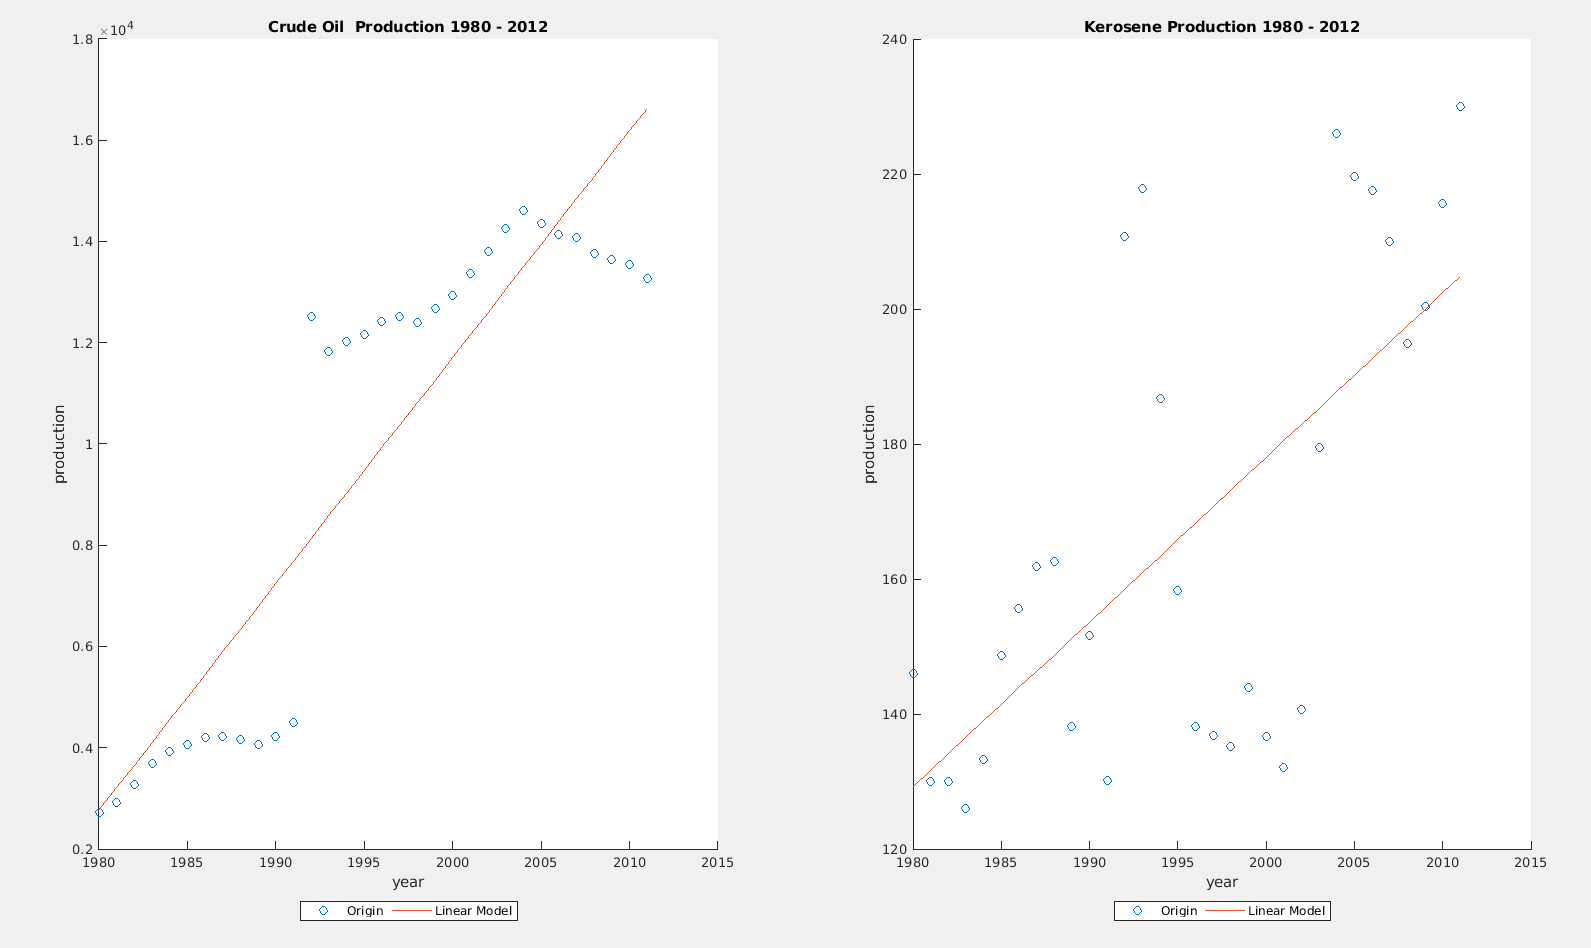
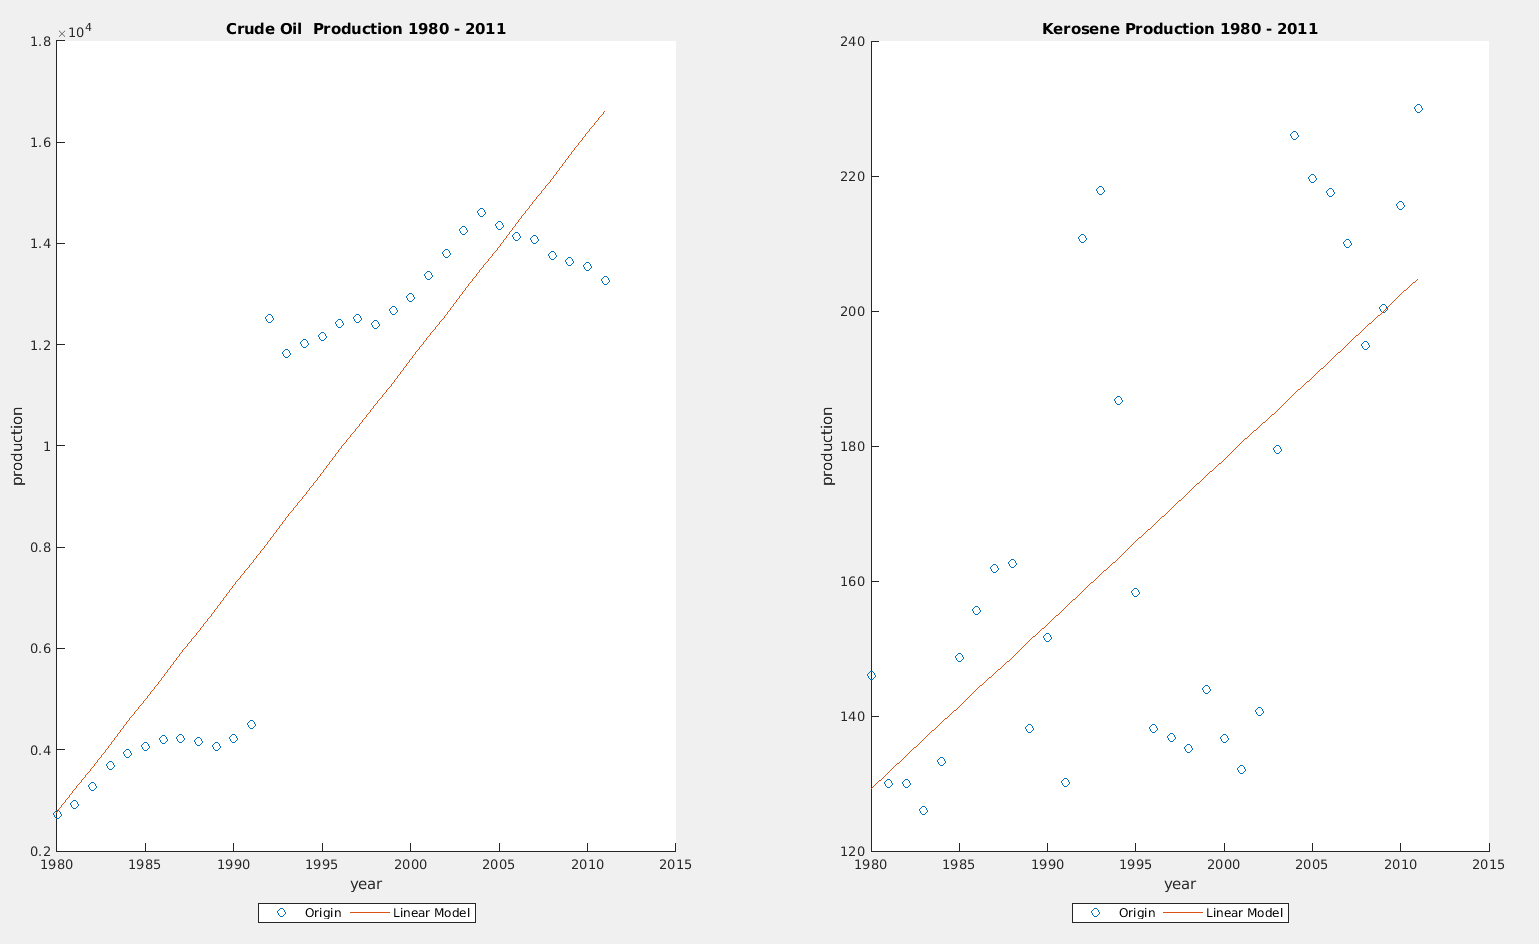
debugged and fixed ex2

diff --git a/Hun_Rim_BonusProject/Template (4)/Template/template.tex b/Hun_Rim_BonusProject/Template (4)/Template/template.tex
@@ -82,7 +82,7 @@ Least Square solution ${x^*}$ can be obtained by solving the following equation:
 
 \vspace{20px}
 
-Then from the ${x^*}$ obtained, we can get the residual vector as following and from it, we can calculate the Euclidean norm and proceed to SE (Sum of Square Residuals) and RMSE (Root Mean Squared Error):
+Then from the ${x^*}$ obtained, we can get the residual vector as following and from it, we can calculate the Euclidean norm and proceed to SE (Standard Error) and RMSE (Root Mean Squared Error):
 
 \vspace{20px}
 
@@ -292,7 +292,7 @@ and the resulting ${x^*}$ will be
   end
  \end{lstlisting}
  
- The code above calculates least squares (${leastSquare.m}$) using matlab library function and Euclidean norm is calculated by using the matlab norm function after calculating the residual vector. Sum of Square Residuals (SE) are calculated by directly squaring the Euclidean norm, and before the Root Mean Squared Error (RMSE) is calculated, the Mean Squared Error is calculated through dividing SE by length of vector b. \\
+ The code above calculates least squares (${leastSquare.m}$) using matlab library function and Euclidean norm is calculated by using the matlab norm function after calculating the residual vector. Standard Errors (SE) are calculated by directly squaring the Euclidean norm, and before the Root Mean Squared Error (RMSE) is calculated, the Mean Squared Error is calculated through dividing SE by length of vector b. \\
  
  \begin{lstlisting}[language=Matlab]
     A_1 = [1, 0; 1, 0; 1, 0];
@@ -368,7 +368,6 @@ The general flow of the logic is very similar, but the matrix A is extended via 
     z = factors(1) + factors(2) * year(:) + factors(3) * year(:).^2;
     same as before ...
  \end{lstlisting}
- \vspace{20px}
  As a result of that change, resulting graph (quadratic) became more fitting than the previous linear graph shown in figure 1.
  \vspace{20px}
  \begin{figure}[h!]
@@ -378,7 +377,6 @@ The general flow of the logic is very similar, but the matrix A is extended via 
     \end{minipage}
   \caption{Quadratic Model and original data of crude oil and kerosene production from 1980 to 2011}
 \end{figure}
-\vspace{20px}
 
 \item Consider the cubic model ${y_i = \alpha_1 + \alpha_2 x_i + \alpha_3 x^2_i + \alpha_4 x^3_i}$ and apply it to the crude oil and kerosene production
 data in the period 1980-2011. Write a script \textit{cubicModel.m} in which you use \textit{leastSquares()} to com-
@@ -416,11 +414,49 @@ Finally, the resultant graph would be more fitted to the original data points th
 \end{figure}
 \vspace{20px}
 
+\item Compare the linear, quadratic and cubic models on the basis of the quality metrics computed above, by creating
+a table containing the results for the two models. Which one of the three models would you pick for the crude
+oil data? And for the kerosene? Provide an estimate of the crude oil and kerosene production in 2012 by using
+the three models and compare the values obtained with the real values reported in the data source. Comment on
+your results. \\
 
+\begin{center}
+\begin{tabular}{|l|r|r|r|r|} \hline
+Model Type & EuclideanNorm & Standard Error & RMSE \\
+\hline
+  Linear Crude  & 11,471 & 131,590,000 & 2,027.8\\
+\hline
+  Quadratic Crude & 9,582.6 & 91,827,000 & 1,694\\
+\hline
+  Cubic Crude & 7,917.9 & 62,692,000 & 1,399.7 \\
+  \hline
+  Linear Kerosene & 151.0222 & 22,808 & 26.6972\\
+\hline
+  Quadratic Kerosene & 145.3013 & 21,112 & 25.6859\\
+\hline
+  Cubic Kerosene & 138.476 & 19,175 & 24.4793 \\
+  \hline
+\end{tabular}
+\end{center}
+\newpage
+\begin{tabular}{|l|r|r|r|r|} \hline
+Energy Type & Linear Estimation & Quadratic Estimation & Cubic Estimation & Real Data \\
+\hline
+ Crude Oil & 17,082(30.3\%) & 14,344(+9.4\%) & 11,473 (-12.5\%) & 13,111\\
+\hline
+Kerosene & 207.2856(-23.6\%) & 225.1621 (-16.9\%) & 248.4740 (-7.3\%) & 267.89\\
+\hline
+\end{tabular}
+
+To make a simple analysis, having a smaller Euclidean Norm suggests better fit of the model to the original data as smaller euclidean norm indicates smaller residuals, and naturally bigger would indicate the opposite. Similarly, Standard Error (SE) and Root Mean Squared Error (RMSE) indicates better fit of the model when they are small. \\
+
+Under this assumption, the data on the table suggests for all the cases, cubic model is the best, quadratic model is the second, and linear model is the worst model to fit the original data. \\
+
+However, the prediction made for 2012 from these models suggest, even though cubic model proved to be the best for kerosene production trend prediction, in terms of prediction for crude oil production, quadratic model showed more accurate result. However, prediction of a singular value is not enough to make a conclusion that quadratic model will always perform better for kerosene production prediction or cubic model will always perform better for crude oil production prediction as the 2012 data might have been just a singular anormaly in the data.\\
+
+To get a more concrete conclusion, we would need more historical data and also make more predictions based on the obtained model. However, statistically it is undeniable that cubic model will show the best predictions.
 
 \end{enumerate}
-
-
 
 \section*{Exercise 3: Analysis of periodic data [20 points]}
 

diff --git a/Hun_Rim_BonusProject/src/quadraticModel.m b/Hun_Rim_BonusProject/src/quadraticModel.m
@@ -6,9 +6,10 @@ y = str2double(production);
 
 x = [ones(duration, 1), year(1:duration), year(1:duration).^2];
 
-[factors, ~, ~, ~] = leastSquares(x, y(1:duration));
+[factors, ENQC, SEQC, RMSEQC] = leastSquares(x, y(1:duration));
 
 z = factors(1) + factors(2) * year(1:duration) + factors(3) * year(1:duration).^2;
+quadCrudePrediction = factors(1) + factors(2) * 2012 + factors(3) * 2012 * 2012;
 
 subplot(1, 2, 1);
 scatter(year(1:duration), y(1:duration), 'x', 'DisplayName', 'Data');
@@ -18,7 +19,7 @@ xlabel('Year');
 ylabel('Production');
 legend('Origin', 'Quadratic Model');
 legend('Location', 'southoutside', 'Orientation', 'horizontal');
-title('Crude Oil Production 1980 - 2012');
+title('Crude Oil Production 1980 - 2011');
 hold off;
 
 [~, productionK, ~] = readData("../data/kerosene.txt");
@@ -26,9 +27,10 @@ yK = productionK(1:duration);
 
 xK = [ones(duration, 1), year(1:duration), year(1:duration).^2];
 
-[factorsK, ~, ~, ~] = leastSquares(xK, yK);
+[factorsK, ENQK, SEQK, RMSEQK] = leastSquares(xK, yK);
 
 zK = factorsK(1) + factorsK(2) * year(1:duration) + factorsK(3) * year(1:duration).^2;
+quadKeroPrediction = factorsK(1) + factorsK(2) * 2012 + factorsK(3) * 2012 * 2012;
 
 
 subplot(1, 2, 2)
@@ -39,5 +41,5 @@ xlabel('year');
 ylabel('production');
 legend('Origin', 'Quadratic Model');
 legend('Location', 'southoutside', 'Orientation', 'horizontal');
-title('Kerosene Production 1980 - 2012');
+title('Kerosene Production 1980 - 2011');
 hold off;

diff --git a/Hun_Rim_BonusProject/src/linearModel.m b/Hun_Rim_BonusProject/src/linearModel.m
@@ -6,9 +6,10 @@ y = str2double(production);
 
 x = [ones(duration, 1), year(1:duration)];
 
-[factors, ~, ~, ~] = leastSquares(x, y(1:duration));
+[factors, ENLC, SELC, RMSELC] = leastSquares(x, y(1:duration));
 
 z = factors(1) + factors(2) * year(1:duration);
+linearCrudePrediction = factors(1) + factors(2) * 2012;
 subplot(1, 2, 1);
 scatter(year(1:duration), y(1:duration), 'o', 'DisplayName', 'Data');
 hold on;
@@ -17,7 +18,7 @@ xlabel('year');
 ylabel('production');
 legend('Origin', 'Linear Model');
 legend('Location', 'southoutside', 'Orientation', 'horizontal');
-title('Crude Oil  Production 1980 - 2012');
+title('Crude Oil  Production 1980 - 2011');
 hold off;
 
 [~, productionK, ~] = readData("../data/kerosene.txt");
@@ -25,10 +26,11 @@ yK = productionK;
 
 xK = [ones(duration, 1), year(1:duration)];
 
-[factorsK, ~, ~, ~] = leastSquares(xK, yK(1:duration));
+[factorsK, ENLK, SELK, RMSELK] = leastSquares(xK, yK(1:duration));
 
 zK = factorsK(1) + factorsK(2) * year(1:duration);
 
+linearKeroPrediction = factorsK(1) + factorsK(2) * 2012;
 
 subplot(1, 2, 2)
 scatter(year(1:duration), yK(1:duration), 'o', 'DisplayName', 'Data');
@@ -38,5 +40,5 @@ xlabel('year');
 ylabel('production');
 legend('Origin', 'Linear Model');
 legend('Location', 'southoutside', 'Orientation', 'horizontal');
-title('Kerosene Production 1980 - 2012');
+title('Kerosene Production 1980 - 2011');
 hold off;
